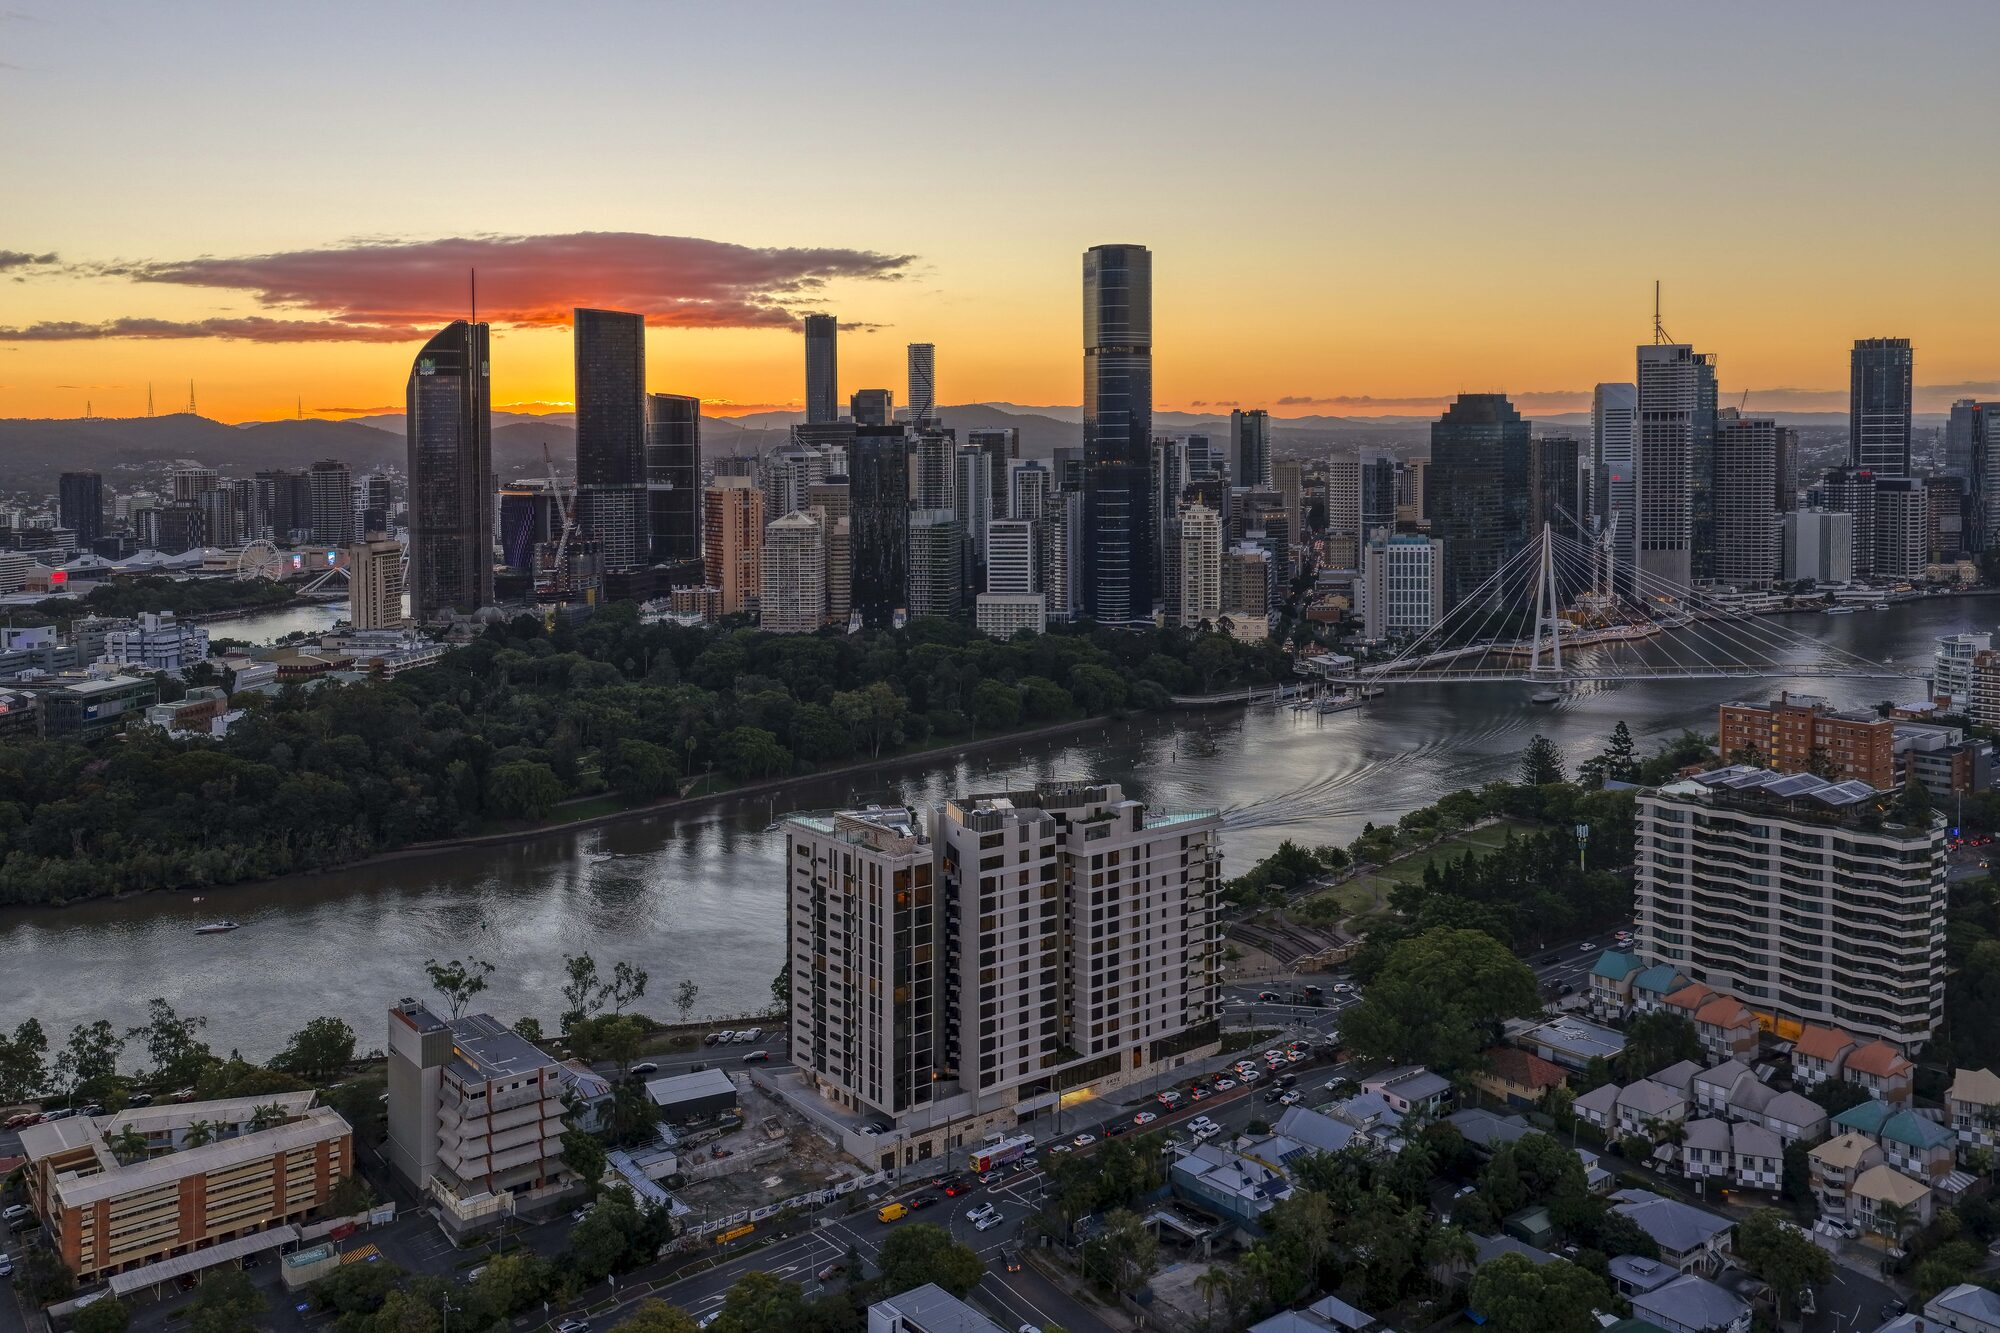
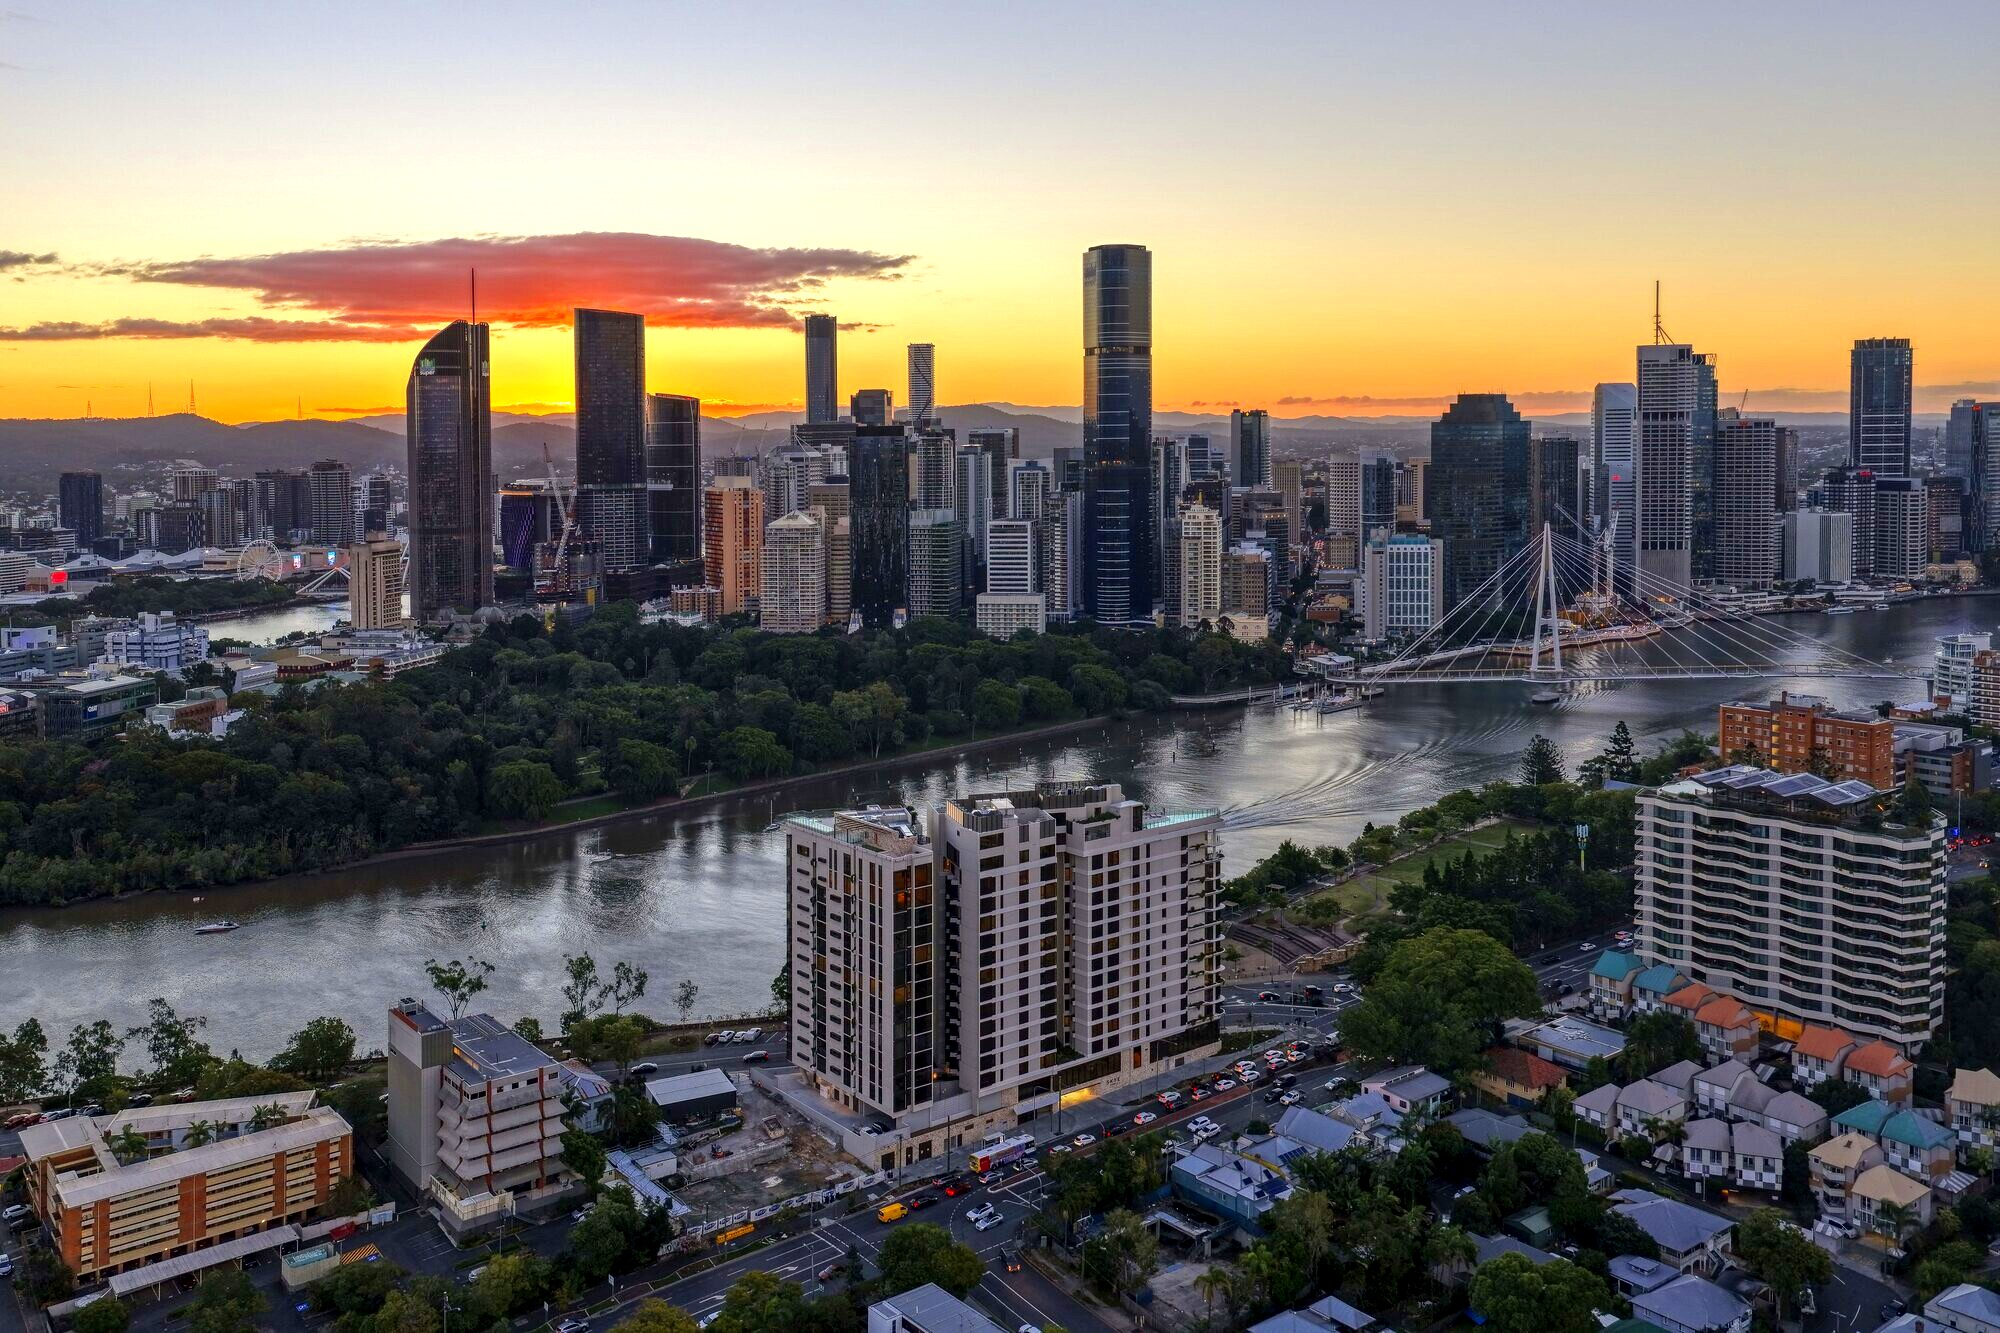
Hero: V2 vibrant dusk grade + new tagline 不止于定义的臻藏栖居; same grade on closing facade; rooftop pool now full-bleed band; tighten gap between rooftop tags and amenity images

diff --git a/index.html b/index.html
@@ -231,7 +231,7 @@
   <div class="hero-inner">
     <div class="kicker">BY PIKOS · KANGAROO POINT</div>
     <h1>SKYE</h1>
-    <div class="sub">超越定义的人居</div>
+    <div class="sub">不止于定义的臻藏栖居</div>
     <div class="tagline">悬崖之上 · 河与城尽收眼底 · LIVE BEYOND DEFINITION</div>
     <div class="addr">8 River Terrace · Kangaroo Point · Brisbane QLD</div>
     <div class="scroll"><span class="ln"></span> 向下滚动</div>
@@ -500,11 +500,20 @@
   </div>
 </section>
 
+<!-- ROOFTOP POOL BAND (full-bleed) -->
+<section data-sec>
+  <div class="band" style="background-image:url('assets/photos/p20_poolaerial.jpg')">
+    <div class="cap reveal">
+      <div class="e">Rooftop Pool</div>
+      <h3>恒温无边泳池，<br>俯瞰河流与城市天际</h3>
+    </div>
+  </div>
+</section>
+
 <!-- 12 ROOFTOP -->
 <section data-sec class="s-dark">
-  <div class="wrap">
-    <div class="reveal d1"><img src="assets/photos/p20_poolaerial.jpg" alt="屋顶无边泳池俯瞰" loading="lazy" style="width:100%;display:block;border-radius:3px" /></div>
-    <div class="eyebrow reveal" style="margin-top:54px"><span class="num">09</span>顶层生活 · 屋顶</div>
+  <div class="wrap" style="padding-bottom:36px">
+    <div class="eyebrow reveal"><span class="num">09</span>顶层生活 · 屋顶</div>
     <h2 class="reveal d1">凌驾一切之上，<em> 尽揽全城风光</em></h2>
     <p class="lede reveal d2">在恒温无边泳池中，舒缓身心，饱览河流至城市的壮阔全景。屋顶休闲再生平台设有躺椅与户外厨房，宛若度假胜地的私属庇护所。</p>
     <p class="lede reveal d3">地面层礼遇延续 —— 礼宾式 Porte Cochère 落客区通向双门厅，中央休闲花园以葱郁景观连接住户图书馆与共享工作空间。</p>
@@ -514,7 +523,7 @@
 
 <!-- AMENITY GALLERY -->
 <section data-sec class="s-dark">
-  <div class="wrap">
+  <div class="wrap" style="padding-top:26px">
     <div class="reveal d1" style="display:grid;gap:18px">
       <img src="assets/photos/p21_arrival.jpg" alt="礼宾式落客区与门厅" loading="lazy" style="width:100%;display:block;border-radius:3px" />
       <img src="assets/photos/p21_pool.jpg" alt="屋顶无边泳池 · 黄昏" loading="lazy" style="width:100%;display:block;border-radius:3px" />